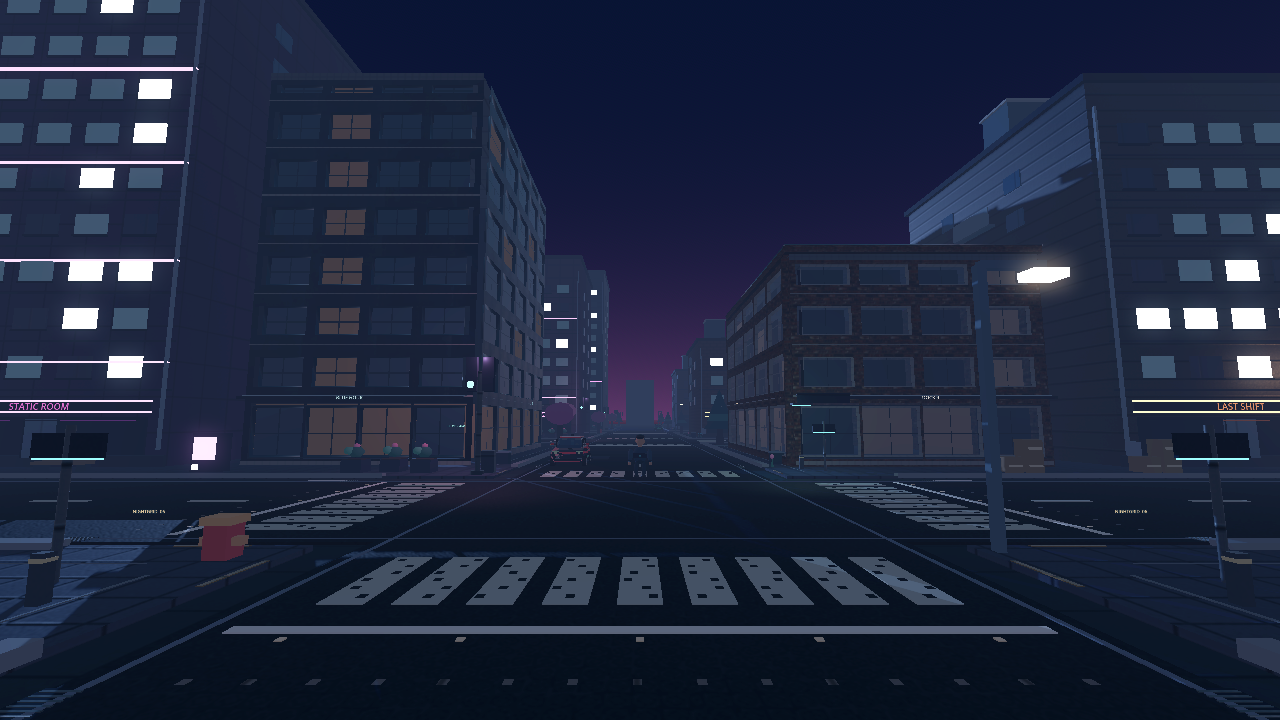
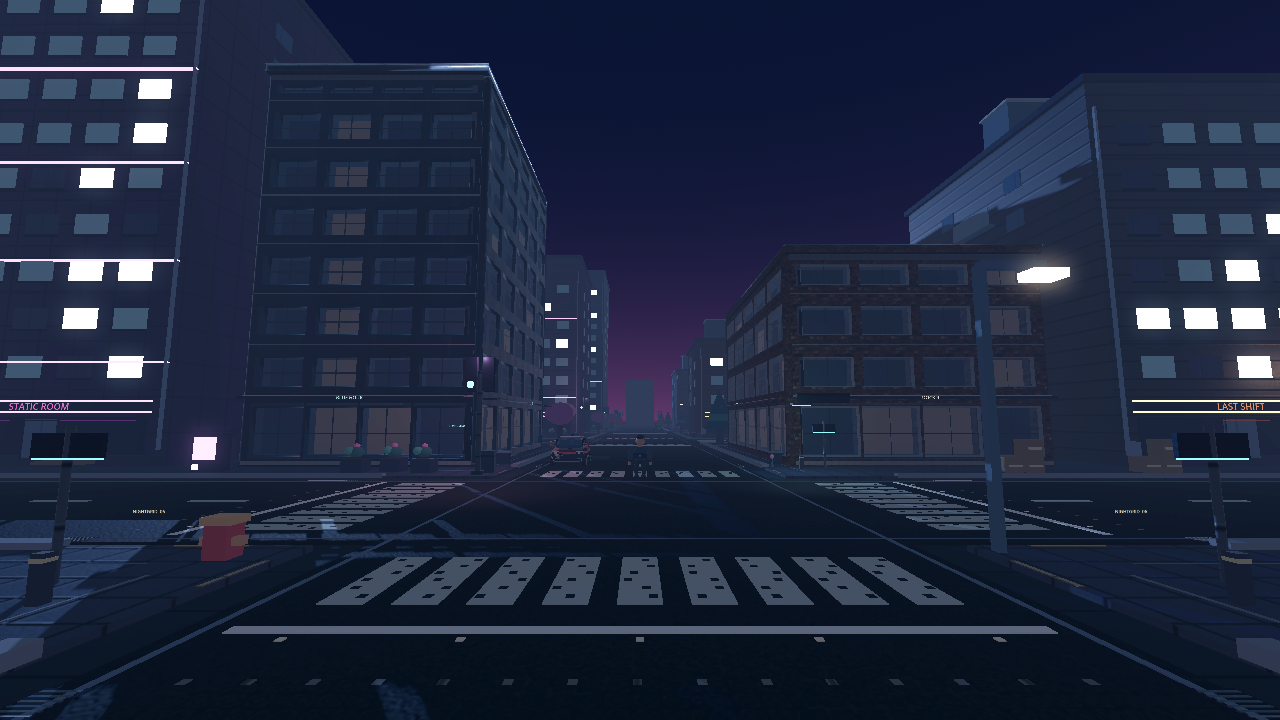
Visual fidelity: Afterhours sealed corner, PBR roof and real game captures (#27)
Add one-building Afterhours geometric shell and roof, physically layered storefront glass, material-sorted PBR tangents, real closeup and README screenshots, QA tests, playtest checklist, and screenshot publishing race fix. Godot full preflight, Windows export and game capture workflows passed for validated source.

diff --git a/docs/PLAYTEST_CHECKLIST.md b/docs/PLAYTEST_CHECKLIST.md
@@ -32,6 +32,18 @@ This is an alpha-quality playable prototype, not a commercial AAA release. The o
 
 Enable **F3** to see an actual FPS/frametime estimate, and use the pause **Settings** toggles for SSR, bloom, contact shading and fog if the GPU struggles. Hardware target is **1080p/60 on RTX 3060**, *not yet benchmarked*. On a poor-performing system, first test with SSR/ambient occlusion off rather than assuming gameplay bugs.
 
+## Central Exchange building-by-building visual acceptance
+
+For the **Brickwater southwest corner (-1,0 / lot 1)** and the **Afterhours southeast corner (0,0 / lot 0)**, compare the same in-game night and midday views at normal walking and driving camera heights. Examine:
+
+- The south-to-avenue outer corner from both street directions, including the two building bases, corner returns and rear/service-yard joins. **No visible light/sky slits**, no view through walls, no floating awning joints.
+- Full-height tinted shop windows, the shadowed room backing, steel mullions and material normal/roughness response. Check for exaggerated alpha sorting, glowing plastic facades, coplanar flashes or obvious texture repetition.
+- Roofing from the train approach or an external inspection camera: scanned tar/bitumen membrane, four parapet walls and metal coping; the Afterhours ventilation housing should sit on the roof, not float through it.
+- Save in the vicinity, leave the streaming radius and return or reload. The same buildings and shop identities must reappear without model pop-in or newly blocked roads.
+- With **F3** enabled, compare 1080p rendered FPS and frame-time behavior at noon and dusk, with and without SSR and ambient occlusion. Physics should stay at fixed 60Hz independently of render frame rate; visual 60 FPS remains **an unverified target**, not a pass/fail claim.
+
+Report which location/time/view exposed any issues. **Do not approve the buildings as AAA solely because headless tests pass**. See [Brickwater](BRICKWATER_CORNER_BUILDING_PASS.md) and [Afterhours](AFTERHOURS_CORNER_BUILDING_PASS.md) acceptance sheets.
+
 ## What to report for a useful bug
 
 A good report includes: **Windows version**, GPU and driver, monitor resolution, keyboard or controller model, **fresh New World vs loaded save**, reproduction steps, expected vs actual behavior, approximate on-screen FPS (F3), and a screenshot/video if available. For gameplay bugs also include the in-game clock and location (use map), and whether the problem survives Save/Load. You can file it at the repository's **Issues** page.
@@ -42,5 +54,5 @@ A good report includes: **Windows version**, GPU and driver, monitor resolution,
 - Café regulars are **stationary ambient actors with deterministic idle animation and authored G lines**; they are not navigation-enabled pedestrians, crowd simulators or full quest givers.
 - The entire open-world street network is **not** hand-polished to the Central Exchange benchmark; the advanced junction is one fixed landmark.
 - Train and car collision/accessibility, indoor pathfinding around all seating and NPC gestures still need hands-on playtests.
-- Initial README screenshots are **real older game captures**, not footage of the latest assets; use actual playtest screenshots when reporting findings.
+- README screenshots are **real Godot framebuffer captures** automatically refreshed for this visual-development branch, but are made using software OpenGL Compatibility, not Windows Forward+/Vulkan. Use screenshots and frametime logs from the actual Windows build for final rendering evaluation.
 - CI's headless tests cover scene construction, key interactions, restore contracts and a 90-frame run, **not** real controller compatibility, sound fidelity, GPU frametime or Windows rendering.

diff --git a/docs/AFTERHOURS_CORNER_BUILDING_PASS.md b/docs/AFTERHOURS_CORNER_BUILDING_PASS.md
@@ -1,0 +1,25 @@
+# Afterhours Corner — focused building fidelity gate
+
+**Location:** Central Exchange, Afterhours parcel `(0,0)`, lot `0`, preserved world-space anchor and street-facing shop ID.  
+**Scope:** This single existing building only; Brickwater and other Morrow Bay buildings retain their original art/collision. This is **intermediate architectural engineering**, not AAA visual acceptance.
+
+## Engineering changes
+
+The previous Afterhours upper floor contained road-visible photographs of blue-painted steel, but its south façade, west-facing street elevation and rear shell ended in disconnected planes. The new `scripts/afterhours_corner_finish.gd` inherits the closed-triangle mesh and UV/tangent builder from the first Brickwater quality gate, while designing an **Afterhours-specific west-side** architectural envelope:
+
+- Four actual outward-wound, six-faced pilaster/return solids bridge the south-to-west corner, opposite service-side corners and the +Z rear wall. Small structural overlaps eliminate sky-visible L-corner cracks without coincident surface z-fighting.
+- Two continuous opaque metal foundation/watertable runs close the base of the streetfront elevations at pedestrian eye height.
+- One photographed, CC0 **Poly Haven Bitumen** 2K normal/roughness/albedo roof surface, enclosed by four closed blue-metal parapet walls and separate copings. Poly Haven Blue Metal Plate 2K supplies cladding texture; original license/source hashes are retained under `assets/pbr/polyhaven/SOURCE.json`.
+- A six-slot roof ventilation grille/housing and three structural awning edge strips give the roof silhouette and the long street-side canopy deliberate physical thickness; no new gameplay colliders or real-time lights are introduced.
+- Front and avenue glazing now use a tinted transparent plane followed by a 0.72m-deep, separately shaded warm or dark room backing, instead of flat amber/opaque glass cards. These are **not** enterable furnished interiors.
+- UV-mapped, tangent-correct, material-sorted triangle surfaces only, built when the permanent city lot is streamed. No per-frame mesh generation, additional draw-time update callbacks, or physics-rate tied rendering.
+
+This is a targeted fix to building continuity, believable material response and representative roof/shader details. It is not a claim that a handful of material-sorted extrusions equal a hand-modeled game-ready AAA building. **The next asset maturity step remains an original, UV-unwrapped, artist-authored glTF building** with verified real apertures, interiors and LODs.
+
+## Verification
+
+`tests/central_frontages_smoke.gd` loads the playable scene and verifies both protected lots, the completed corner return/foundation/parapet/roof and canopy counts, explicit PBR normal maps and tangent data, the shallow glass/room gap, and zero new collisions/lights; checks against reload/streaming/save manifest remain in the same suite.
+
+The automated review workflow captures **actual running Godot** 1280×720 software OpenGL framebuffer images, with new Afterhours corner-eye and rooftop inspection viewpoints in addition to the old Brickwater references. The updated README panorama is genuine framebuffer evidence, not a generated concept.
+
+**Still required before final visual approval:** visual review of the real roof, street corners, rear returns, right-angle normals, glass sorting and canopy, 1920×1080 Windows Forward+/Vulkan noon/dusk/night captures, gameplay navigation, original photoreal design reference comparison, and measured p95/p99 frame times on RTX 3060 12GB. 60 FPS is a goal only; fixed 60Hz physics is independent of rendered FPS.

diff --git a/README.md b/README.md
@@ -6,7 +6,9 @@
 
 **Central Exchange (Brickwater/Afterhours corners):** two fixed building lots now have coherent custom `ArrayMesh` building façades, not the usual stacked `BoxMesh` window cards. Recessed windows, human-scale shop glazing, street-facing side elevations and canopy profiles are textured with **real 2K Poly Haven CC0 photographs** (brick and painted blue steel, each with albedo, OpenGL normal and roughness). Gameplay collision, street geometry, shop identities, save manifests and world seeds are preserved. This is a meaningful *partial world-engineering upgrade*, not a claim of AAA visual fidelity. [Full provenance, implementation, and actual Godot screenshot review](docs/CENTRAL_EXCHANGE_FIDELITY_PILOT.md). The rest of the city and original cars/characters are still visually provisional.
 
-**Building-by-building art gate (2026-11-20):** The **Brickwater Central Exchange corner building, parcel `(-1,0)` lot `1`**, is the first independently reviewed complete-envelope pass: solid corner returns, masonry foundation, closed roof/parapet/copings, **photographed CC0 2K bitumen roof + brick/steel PBR** with tangent normals, and separate tinted glass/room backing. This is a **single-building geometry/material correction**, not a claim of finished AAA art or a new global building style. The Afterhours neighbor is intentionally unchanged. [See the building-specific geometry and Forward+ visual acceptance checklist](docs/BRICKWATER_CORNER_BUILDING_PASS.md).
+**Building-by-building art gate (2026-11-20):** The **Brickwater Central Exchange corner building, parcel `(-1,0)` lot `1`**, is the first independently reviewed complete-envelope pass: solid corner returns, masonry foundation, closed roof/parapet/copings, **photographed CC0 2K bitumen roof + brick/steel PBR** with tangent normals, and separate tinted glass/room backing. This is a **single-building geometry/material correction**, not a claim of finished AAA art or a new global building style. That first pass left the Afterhours neighbor unchanged. [See the building-specific geometry and Forward+ visual acceptance checklist](docs/BRICKWATER_CORNER_BUILDING_PASS.md).
+
+**Building #2 — Afterhours corner (2026-11-20):** The matching **Afterhours Central Exchange building, parcel `(0,0)` lot `0`**, now has closed metal corner returns, continuous watertable, solid parapet/coping, genuine scanned **bitumen roofing** and steel facade, structural canopy edge seals, and glass with a separate recessed shaded room backing. This work stays within one known permanent address, retains gameplay collision and avoids adding per-frame geometry or lamps. It is **still a technical art pass**, not an artist-approved high-fidelity DCC/glTF asset. [Full building geometry/PBR QA and screenshot gates](docs/AFTERHOURS_CORNER_BUILDING_PASS.md).
 
 ### New approved visual direction: photorealistic cyberpunk city
 
